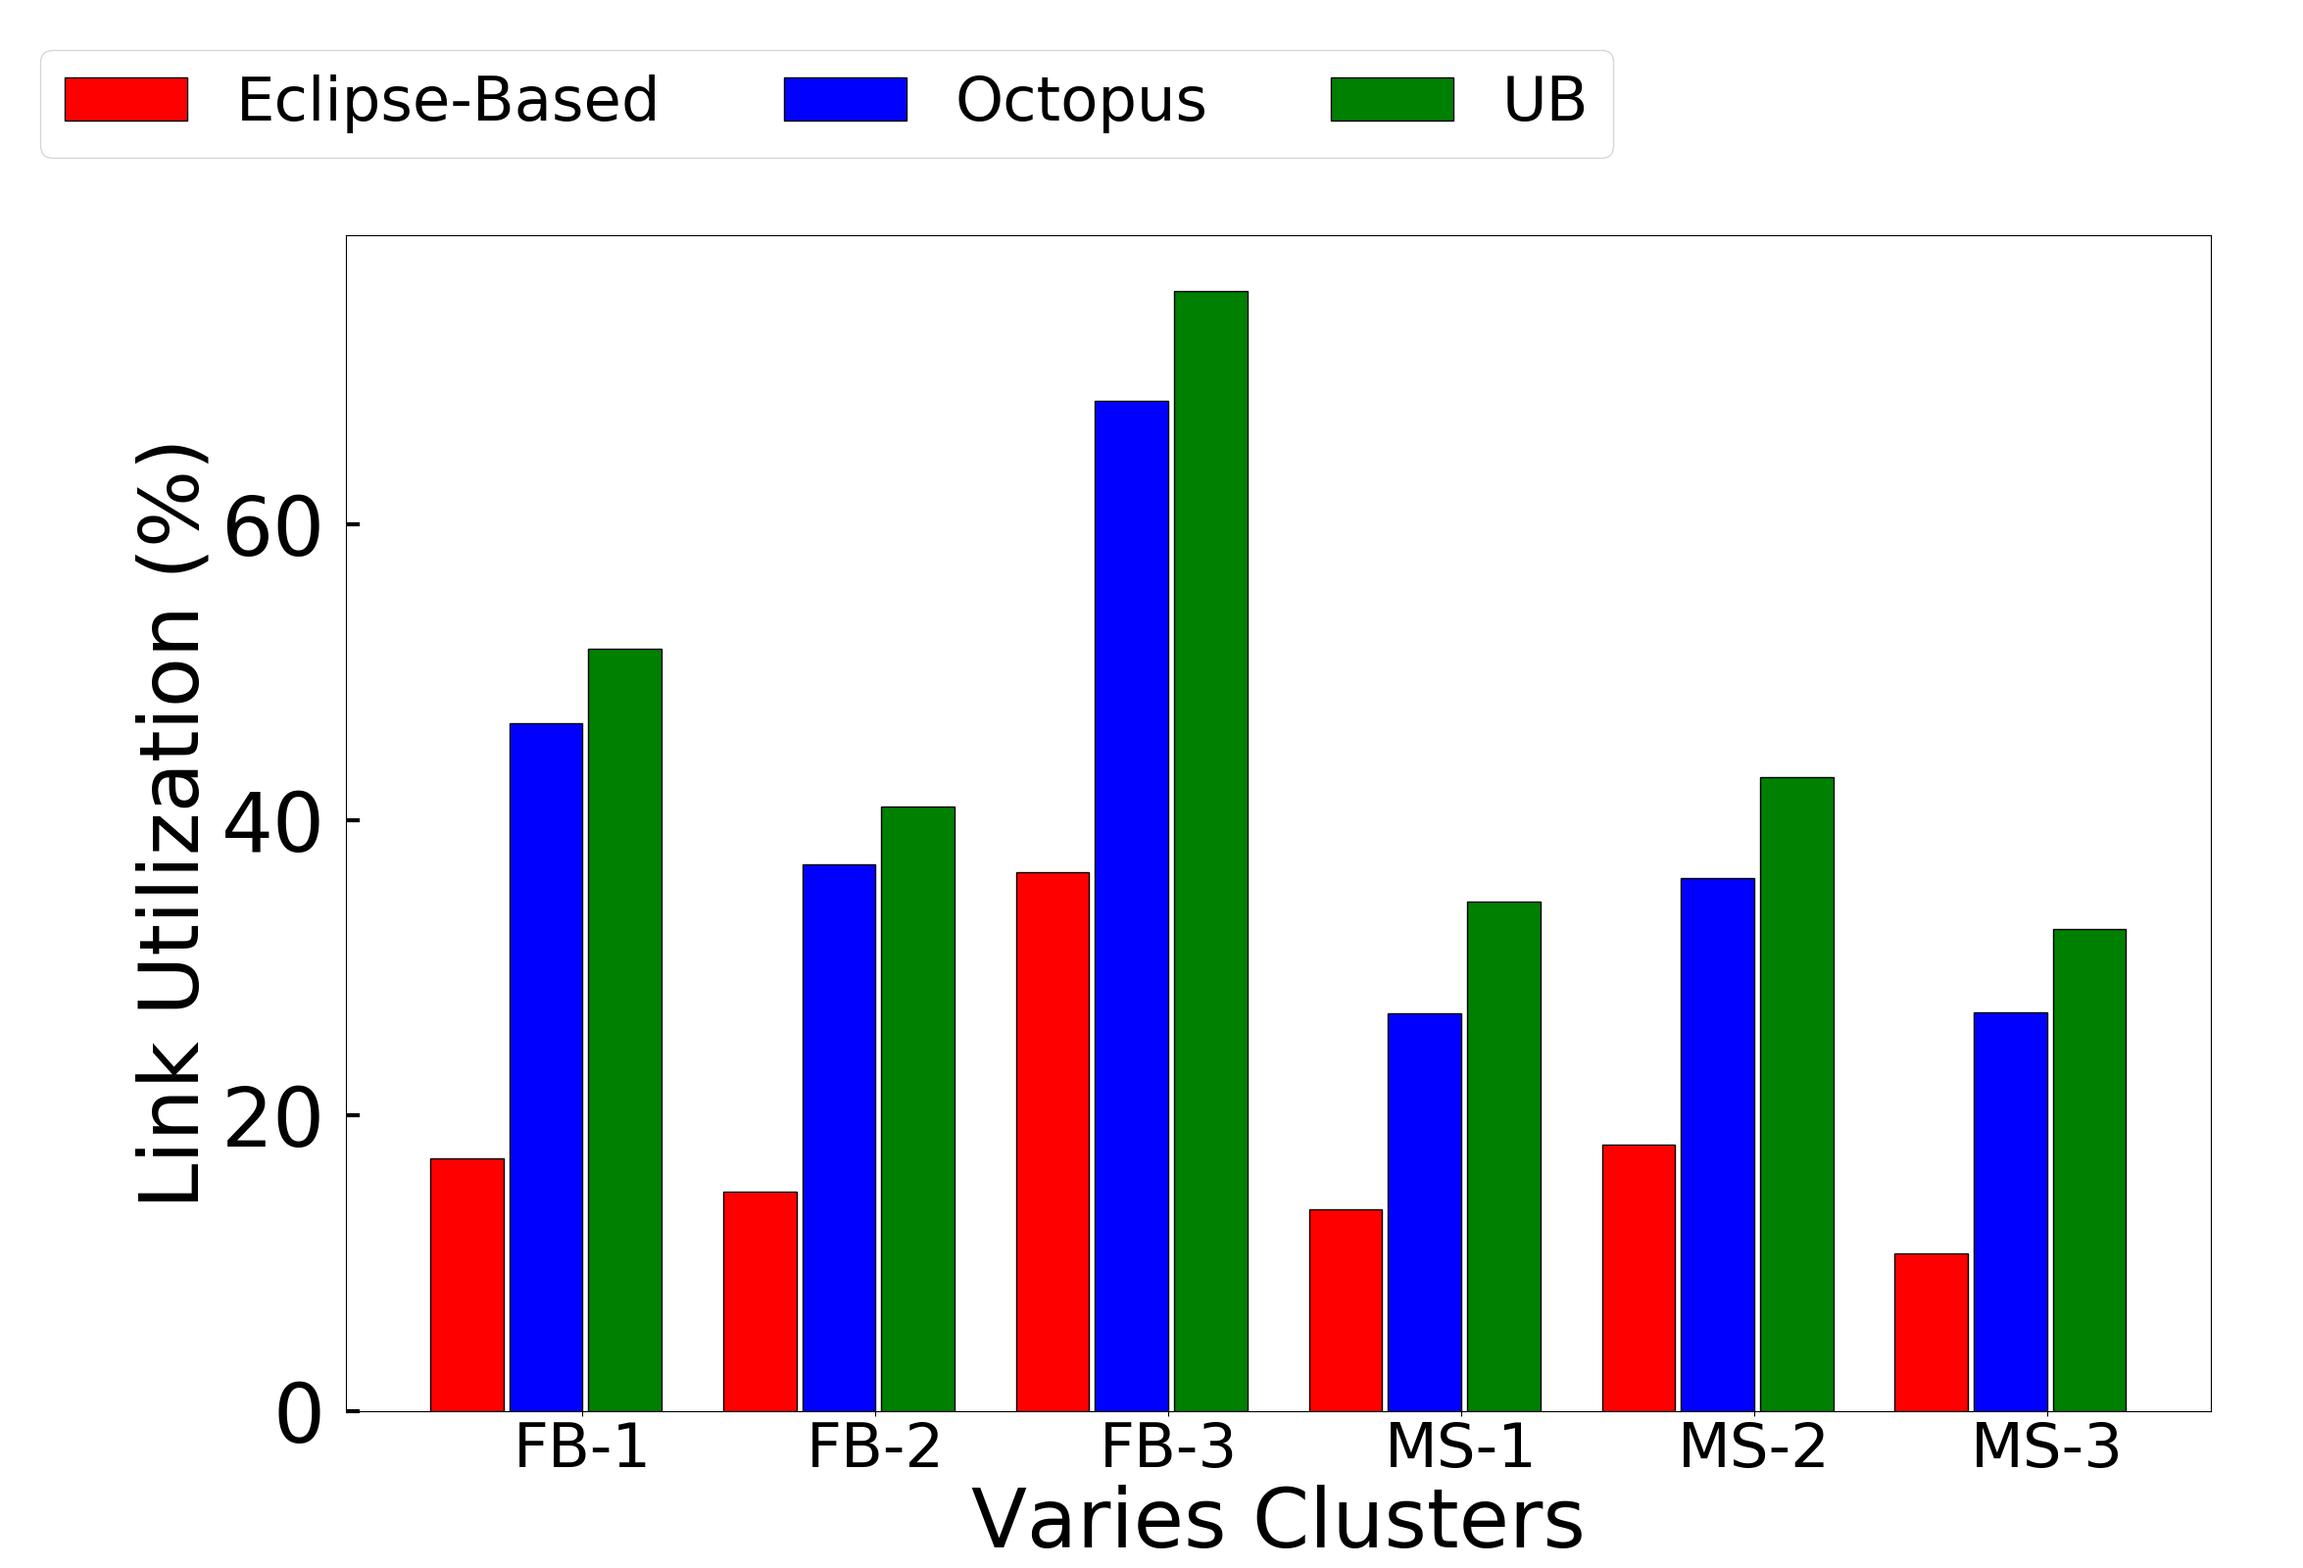
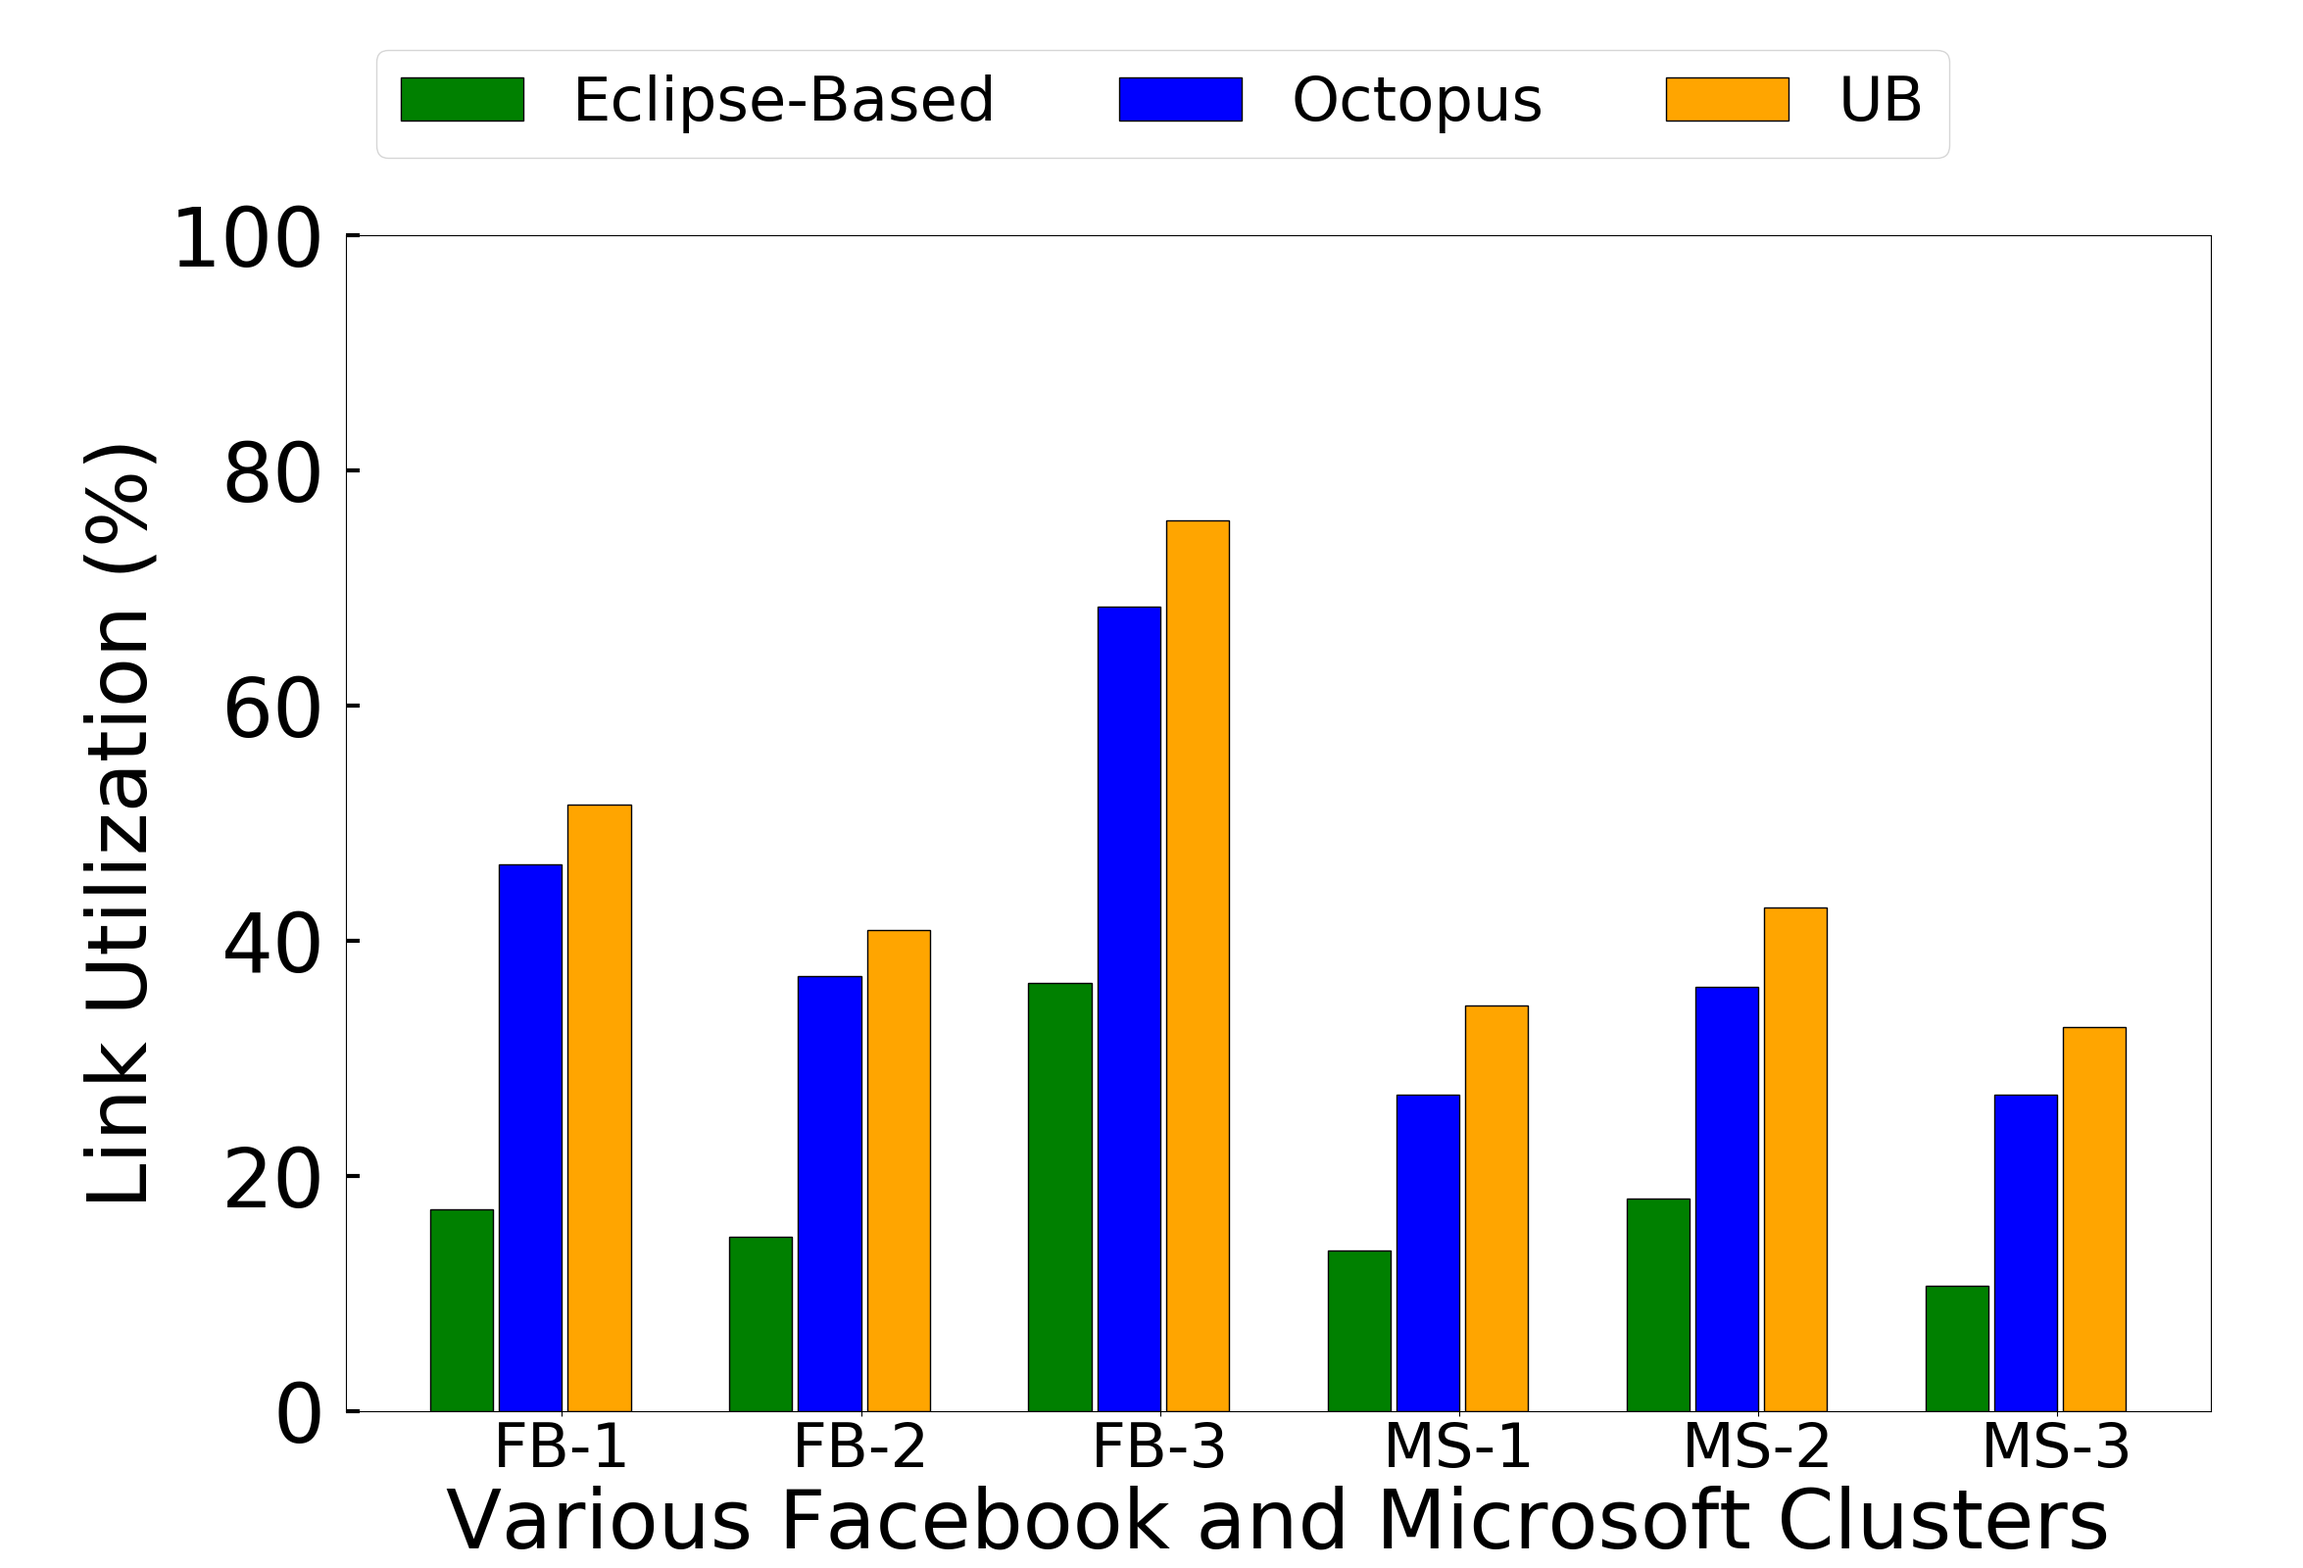
*/main.ipch

diff --git a/plots.py b/plots.py
@@ -269,7 +269,7 @@ def plot2_2(path):
 		eclip = np.array(arr[:, 4], float)
 
 		ind   = np.arange(len(oct_r))
-		width = 0.25
+		width = 0.21
 		
 		fig, ax = plt.subplots(figsize=(23.5, 16))
 		fig.subplots_adjust(left=0.15, right=0.96, top=0.85, bottom=0.1)
@@ -280,10 +280,11 @@ def plot2_2(path):
 		ax.bar(pos2, oct_r, width, edgecolor='black', label='Octopus', color=COLOR['Octopus'])
 		ax.bar(pos3, ub, width, edgecolor='black', label='UB', color=COLOR['UB'])
 		
-		plt.legend(bbox_to_anchor=(-0.18, 1.04), loc='lower left', ncol=4, fontsize=45)
+		plt.legend(bbox_to_anchor=(0, 1.04), loc='lower left', ncol=4, fontsize=45)
 		ax.tick_params(axis='y', direction='in', length=10, width=3, pad=15)
 		ax.set_ylabel(metric_)
-		ax.set_xlabel('Varies Clusters')
+		ax.set_ylim([0, 100])
+		ax.set_xlabel('Various Facebook and Microsoft Clusters')
 		plt.xticks(ind, ['FB-1', 'FB-2', 'FB-3', 'MS-1', 'MS-2', 'MS-3'], fontsize=45)
 		plt.savefig('{}/{}-real_traffic'.format(path, metric))
 
